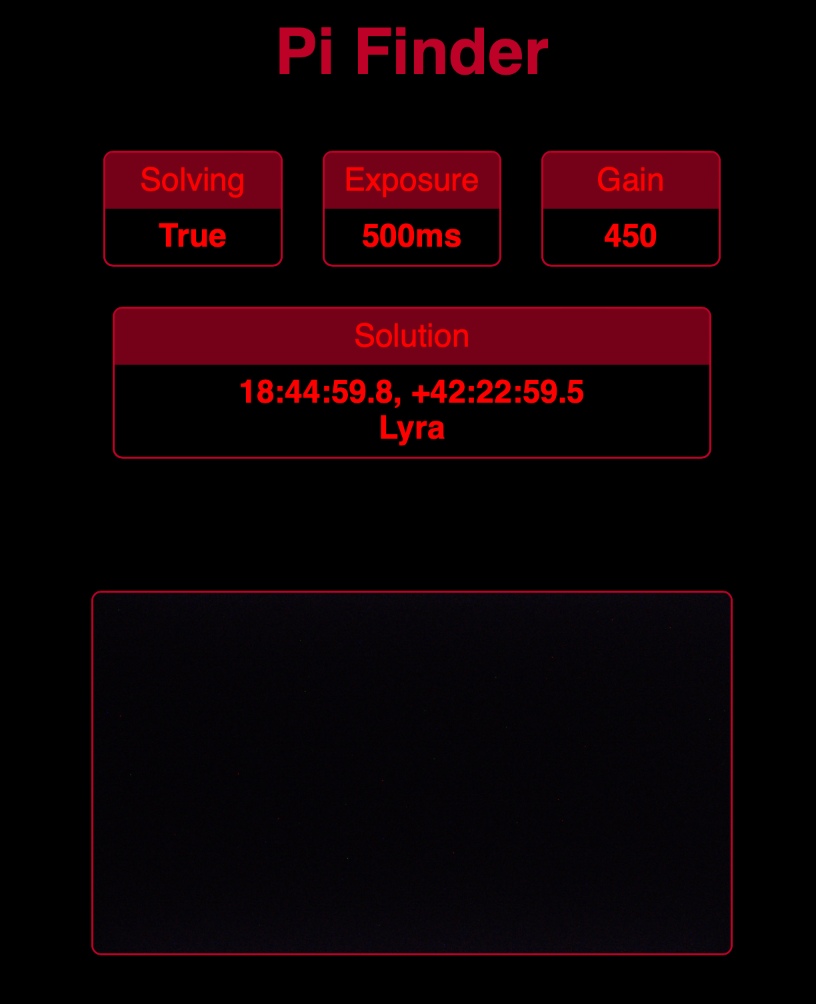
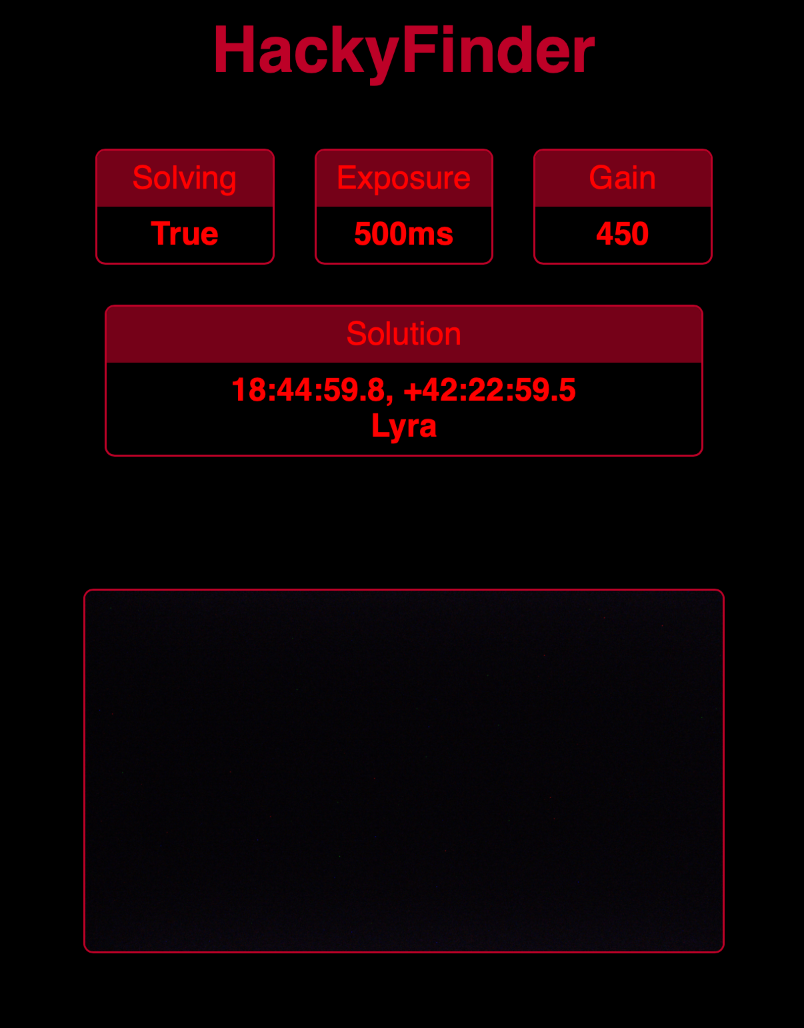
Update images and solver command

Changed region(s): [[0.0933, 0.1235, 0.9017, 0.4631], [0.0933, 0.5558, 0.9017, 0.9572], [0.2488, 0.0, 0.7463, 0.0926]]

diff --git a/HackyFinder.py b/HackyFinder.py
@@ -124,8 +124,8 @@ def solve_images():
 		capture_image(camera, filename)
 
 
-		command = "/usr/bin/solve-field --no-remove-lines --uniformize 0 --scale-low 1.83 --scale-high 3.24 --overwrite --downsample 6 -p -S none -N none --cpulimit 10 /tmp/img.tiff"
-		# command = "/usr/bin/solve-field --no-remove-lines --uniformize 0 --scale-low " + str(scale_low) + " --scale-high " + str(scale_high) + " --overwrite --downsample " + str(downsample) + " -p -S none -N none --cpulimit 10 " + filename
+		# command = "/usr/bin/solve-field --no-remove-lines --uniformize 0 --scale-low 1.83 --scale-high 3.24 --overwrite --downsample 6 -p -S none -N none --cpulimit 10 /tmp/img.tiff"
+		command = "/usr/bin/solve-field --no-remove-lines --uniformize 0 --scale-low " + str(scale_low) + " --scale-high " + str(scale_high) + " --overwrite --downsample " + str(downsample) + " -p -S none -N none --cpulimit 10 " + filename
 		# print(command)
 
 		if solving:
